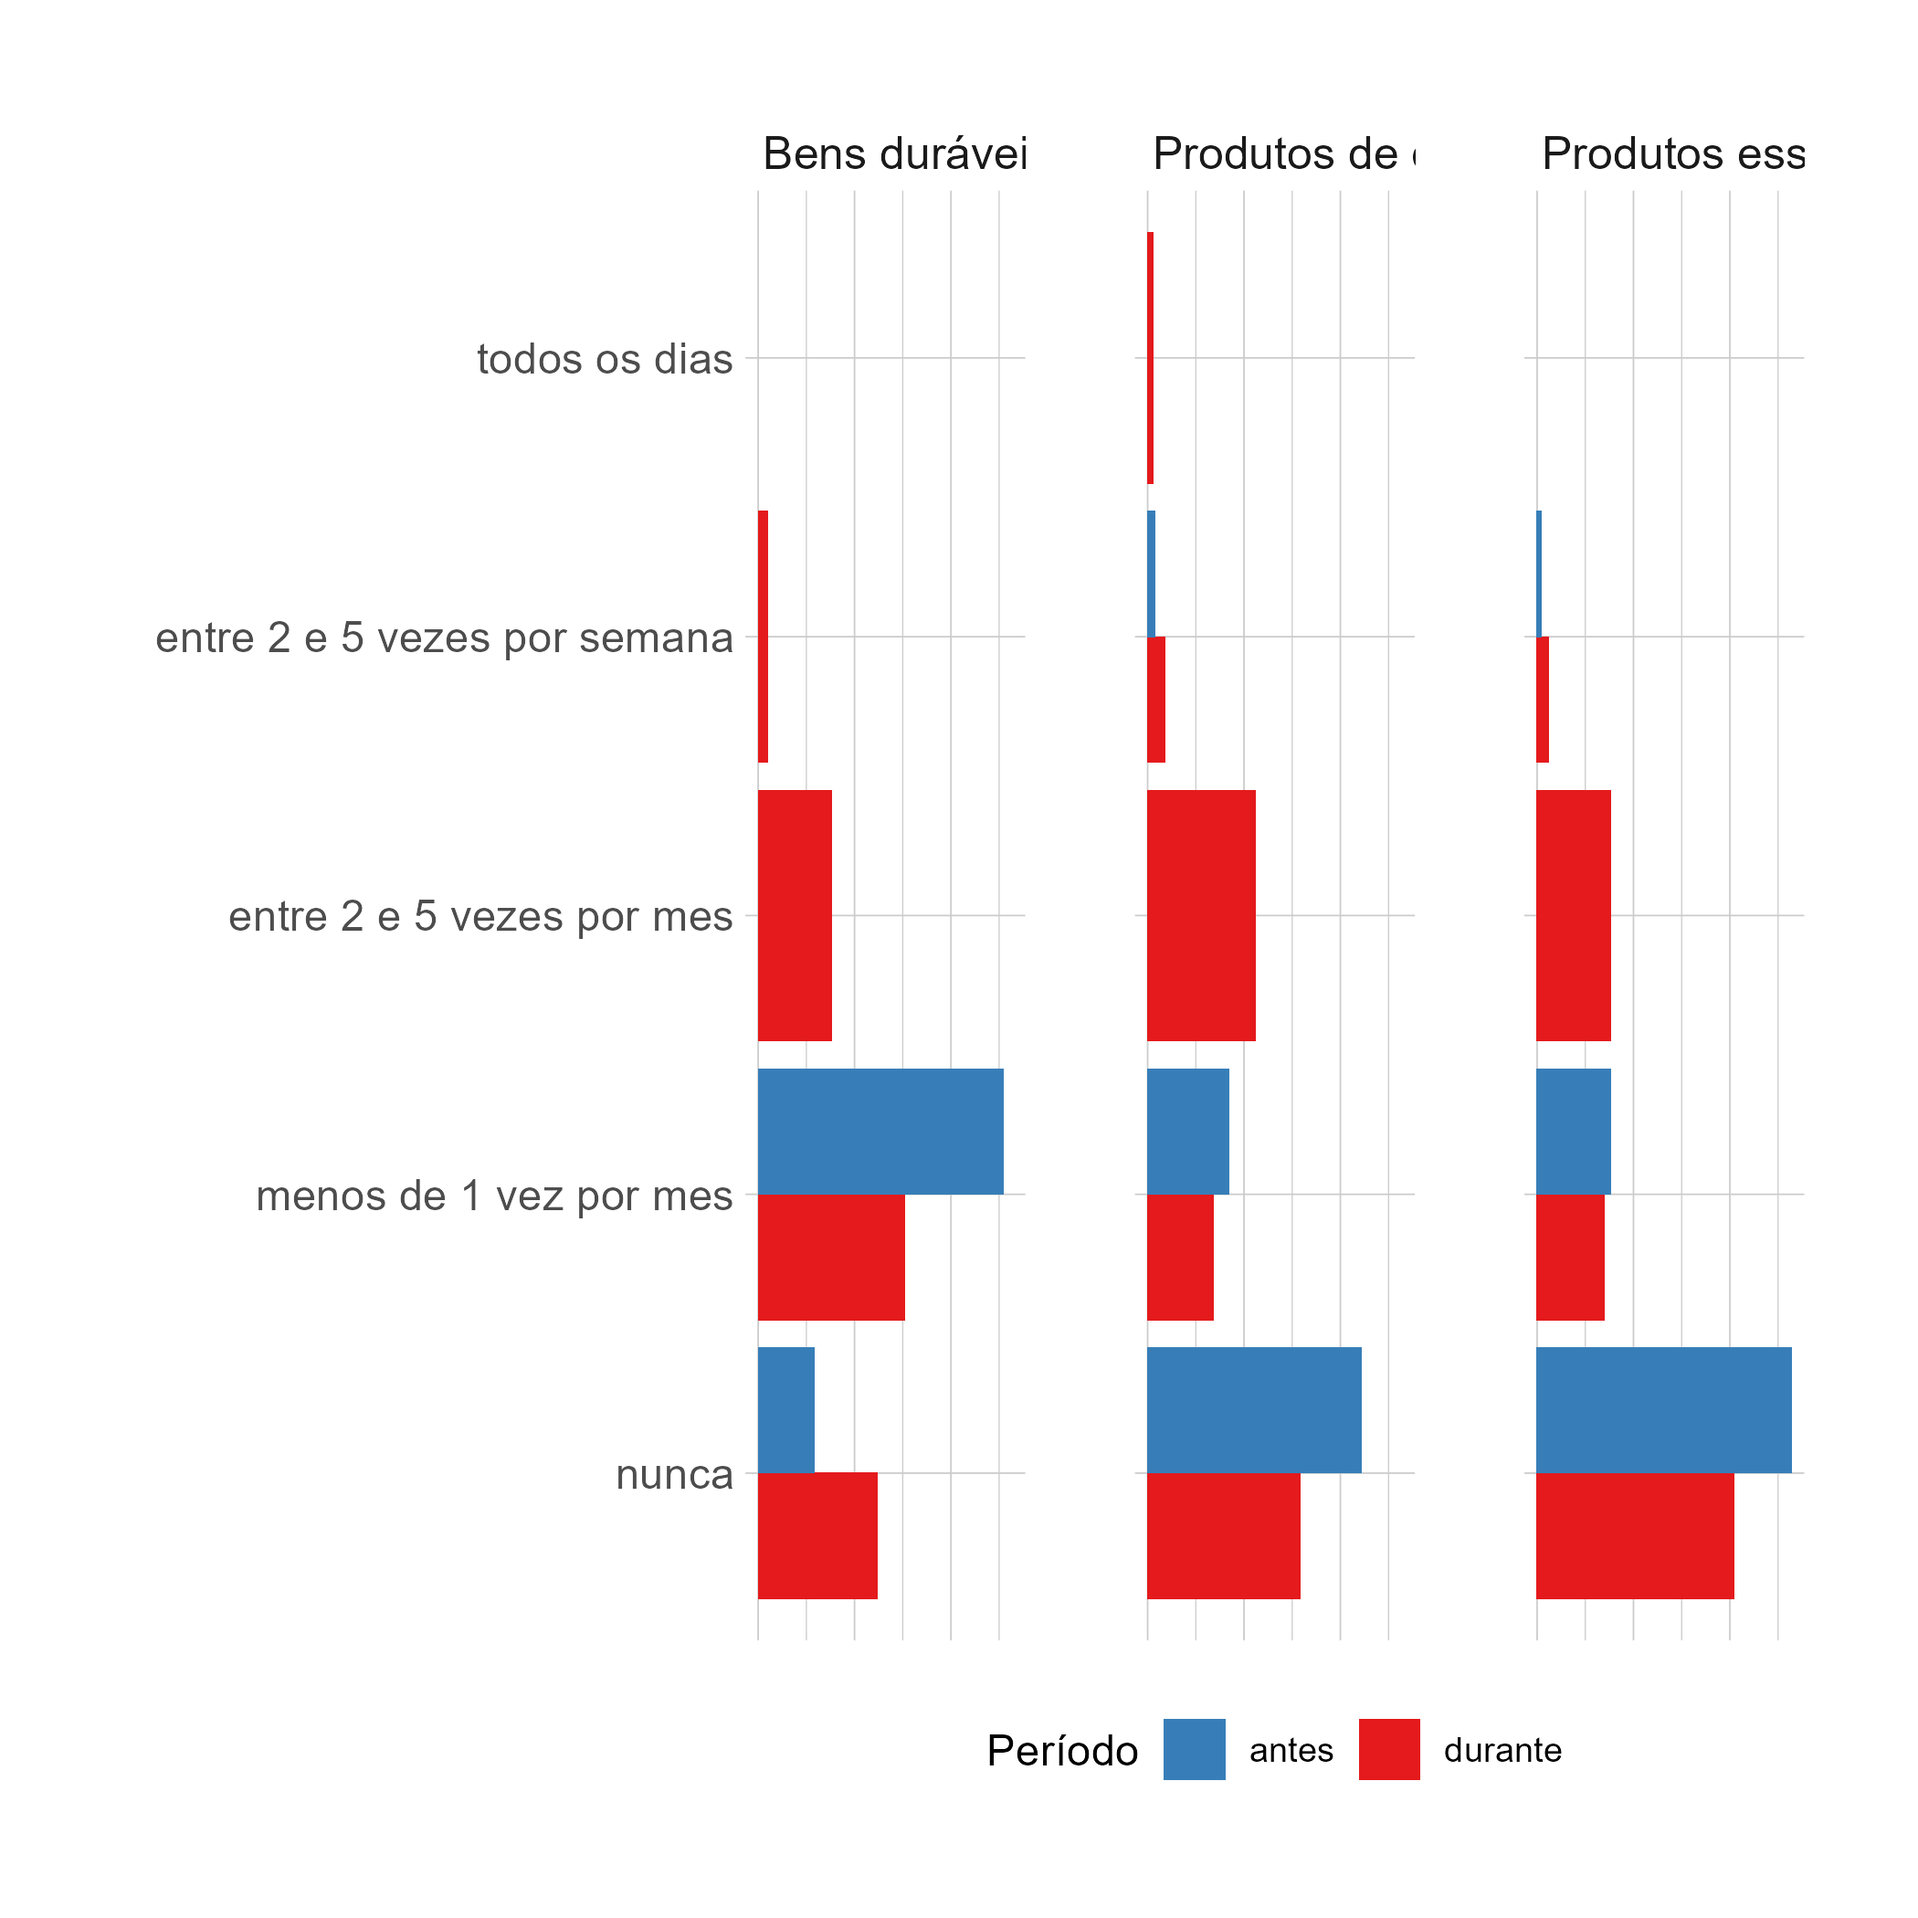
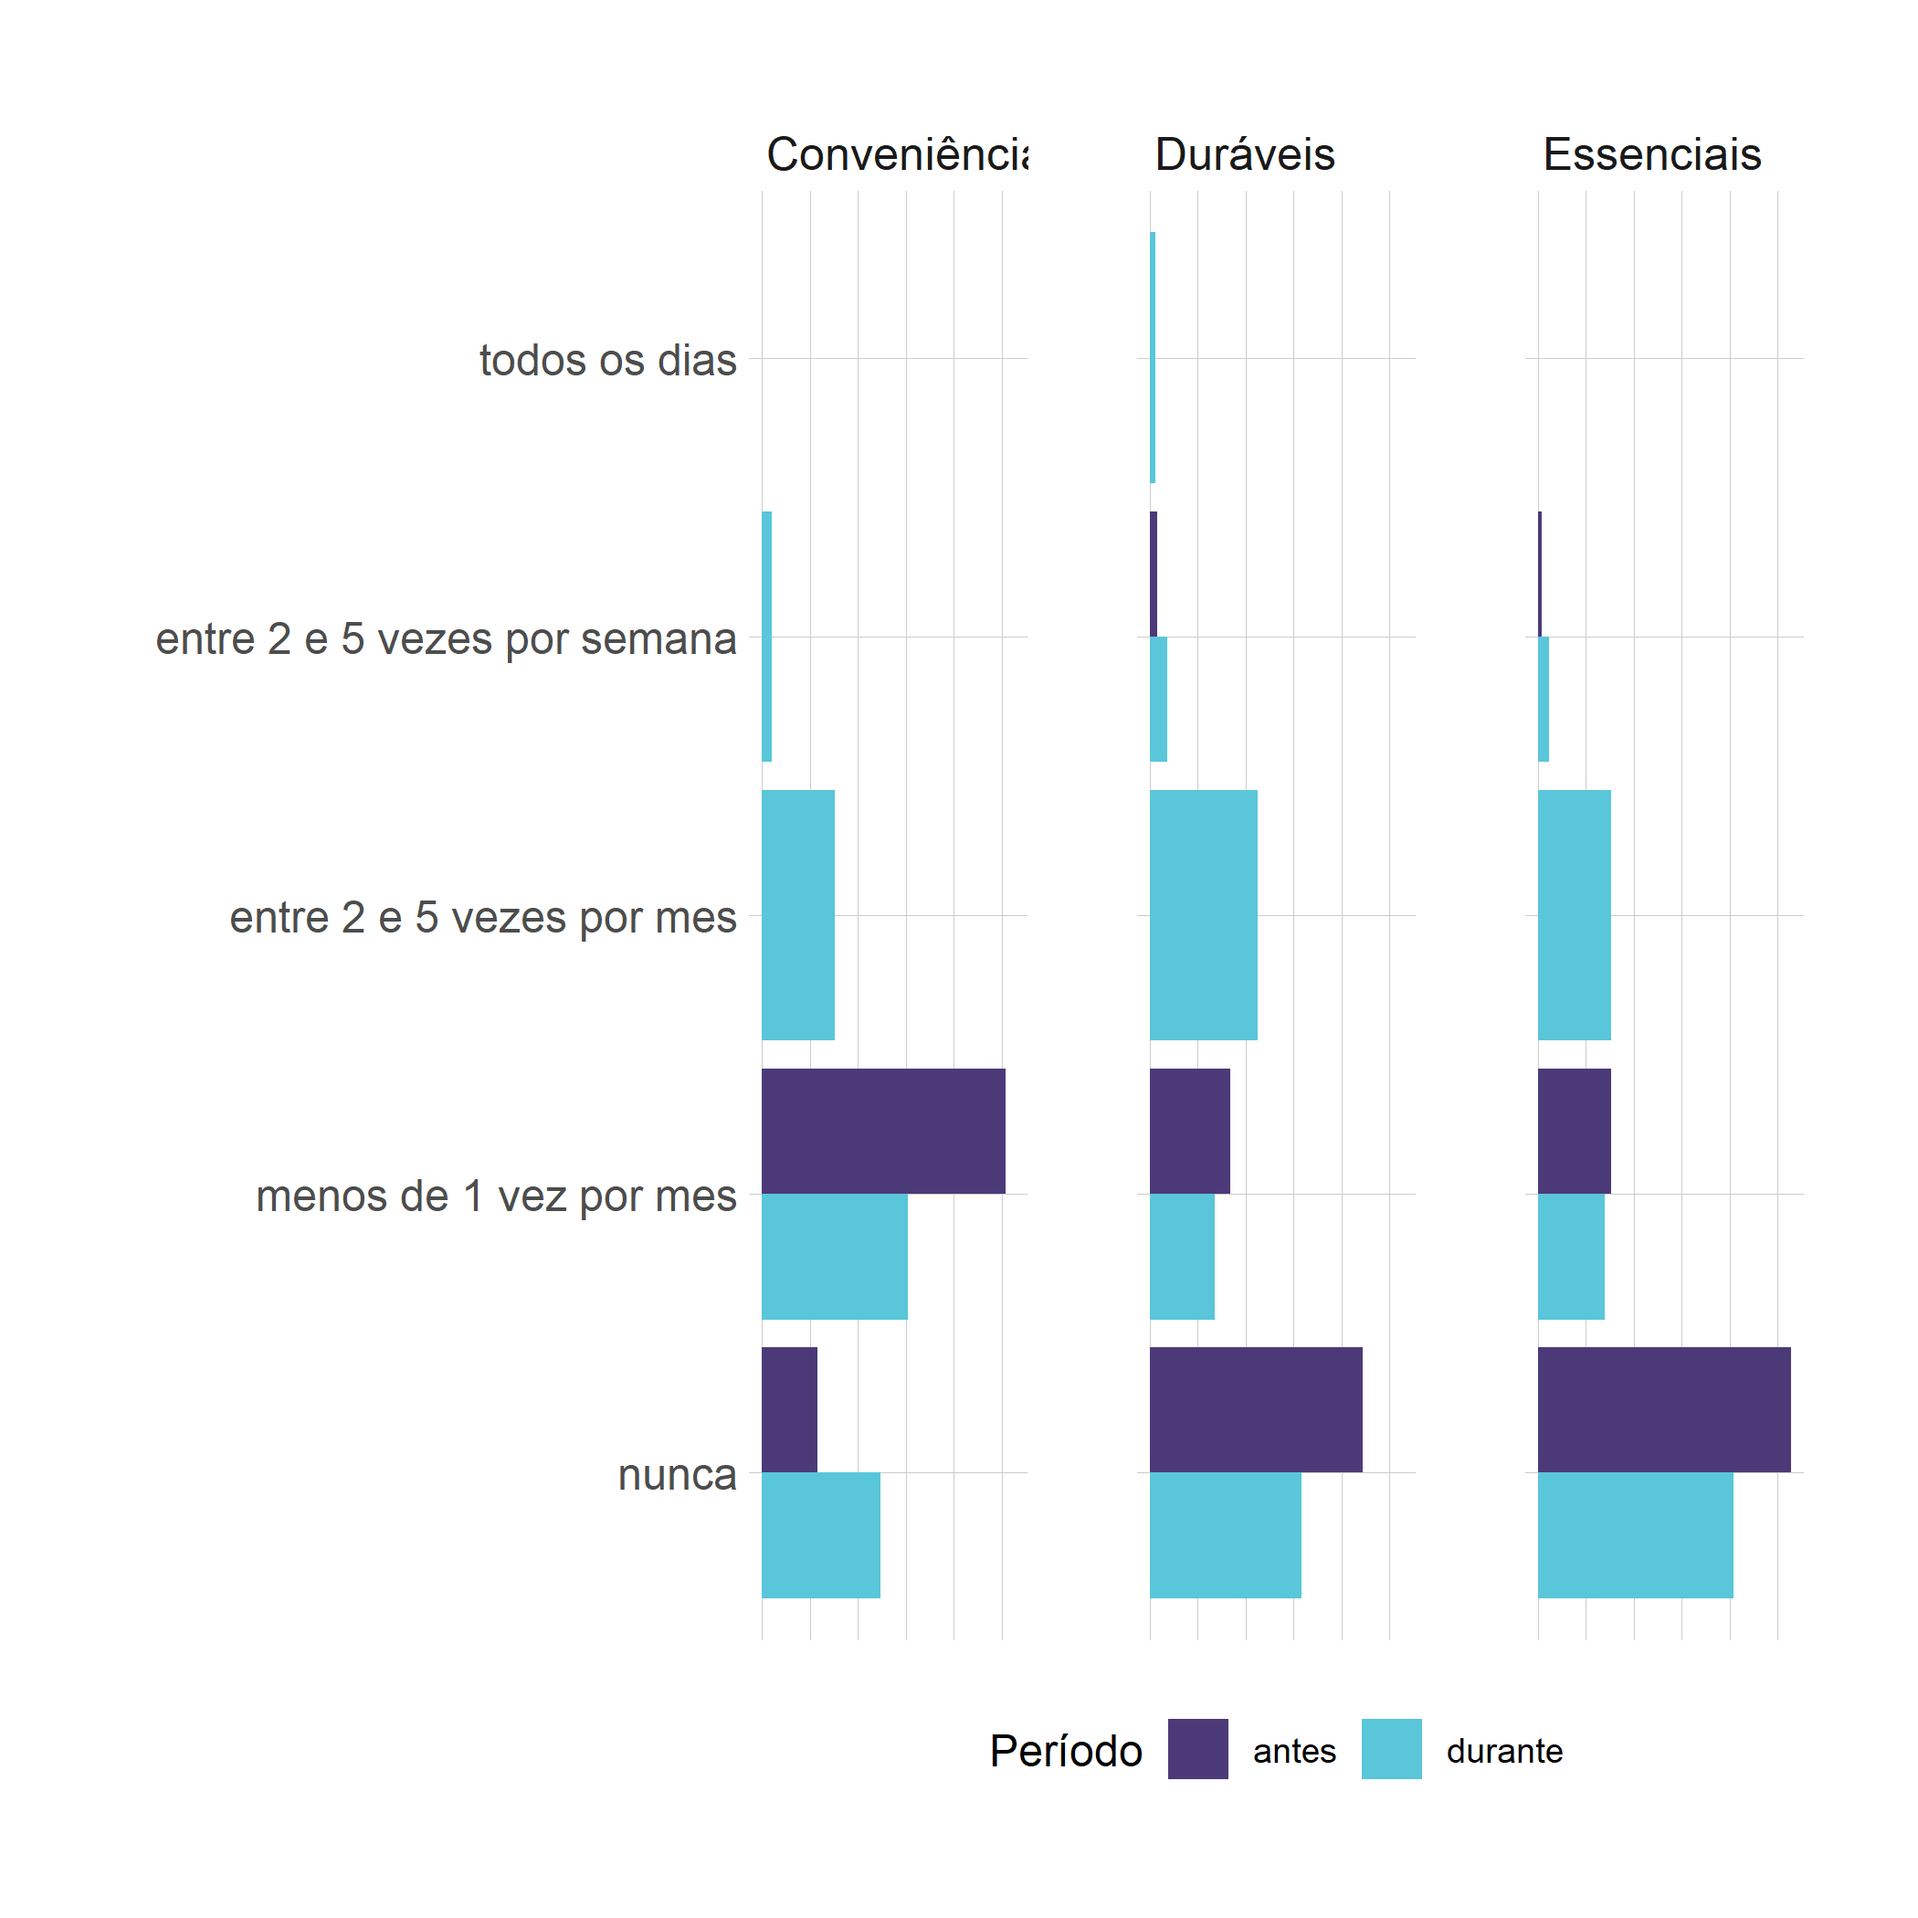
as

diff --git a/index.html b/index.html
@@ -363,14 +363,14 @@ Serviços
 .center[
 **Modo de transporte**   
 Frequência absoluta
-&lt;img src="img/modo_genero2.png" width="2933" /&gt;
+&lt;img src="img/modo_genero2.png" width="2800" /&gt;
 ]]
 
 .pull-right[
 .center[
 **Modo de transporte**   
 Proporção
-&lt;img src="img/modo_genero1.png" width="2933" /&gt;
+&lt;img src="img/modo_genero1.png" width="2800" /&gt;
 ]]
 
 ---
@@ -412,6 +412,18 @@ Proporção
 
 ---
 
+# Resultados
+## Frequência de compras pela internet por tipo de produto
+
+
+.center[
+**Frequência**
+&lt;img src="img/freq_genero_serv.png" width="85%" /&gt;
+]
+
+
+
+---
 # Resultados
 ## Fatores de escolha - E-commerce
 
